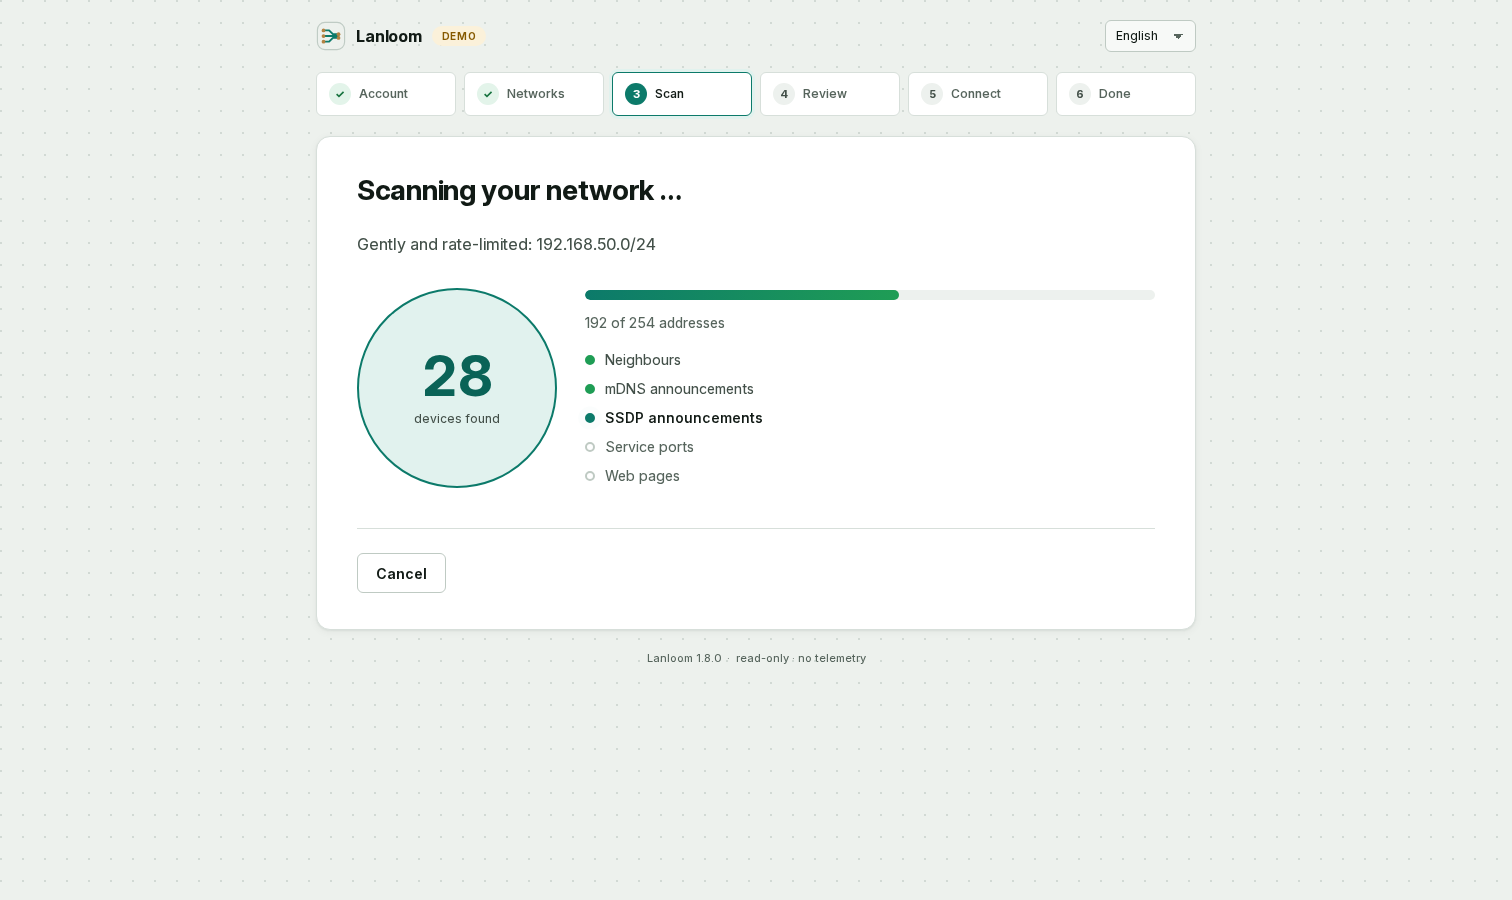
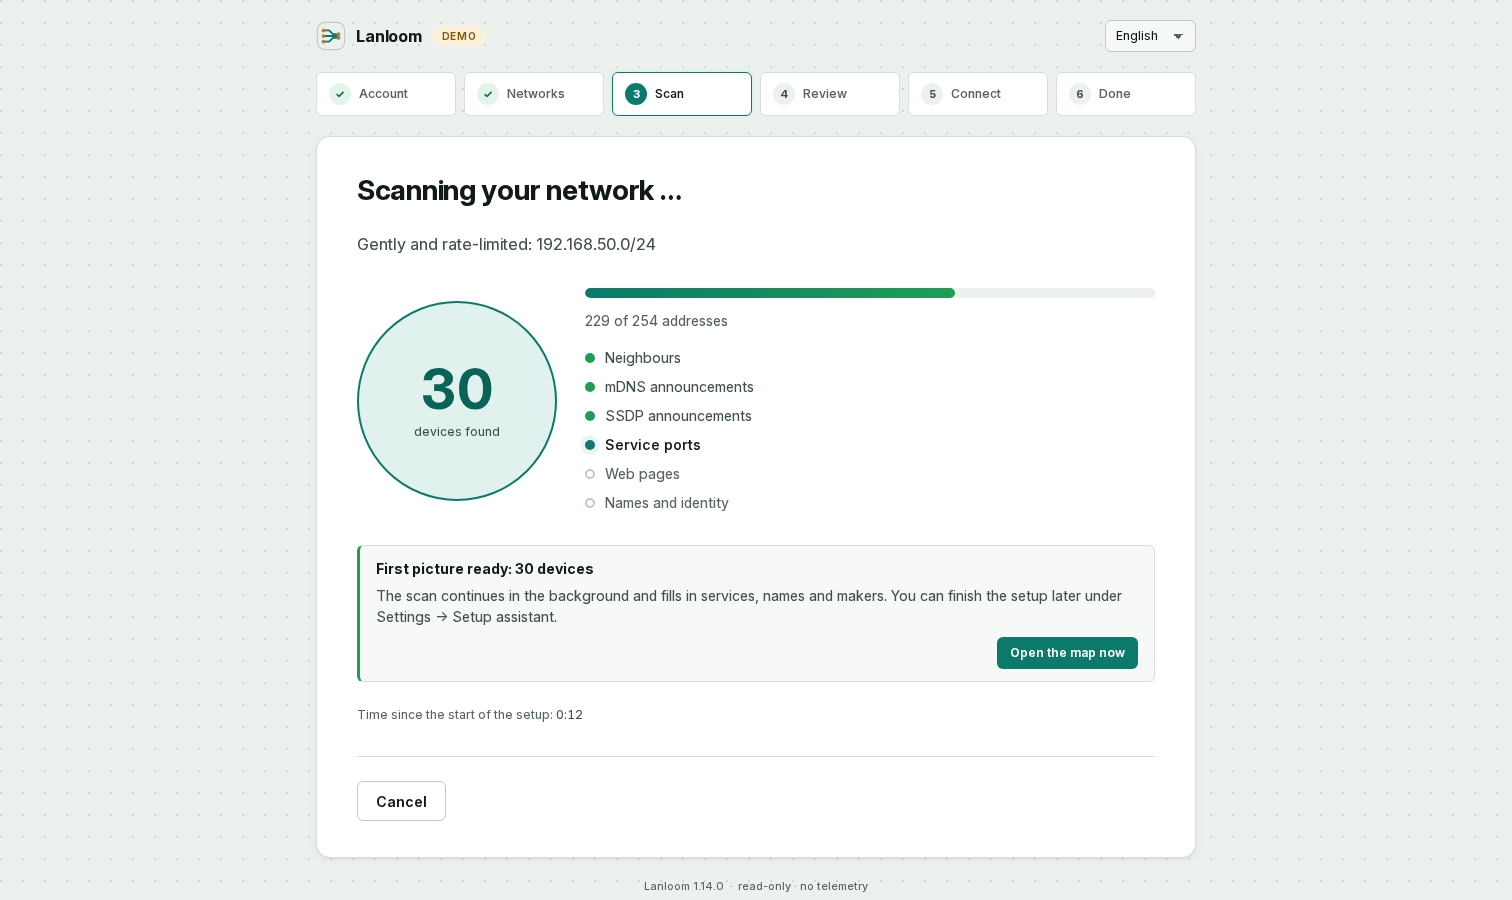
Lanloom 1.14.0: setup assistant 2.0 - detected networks and a safe proposal, first picture during the scan, adapter suggestions with read-only guides, clear test results, sample network, run again; docs and screenshots

diff --git a/tests/test_setup_assist.py b/tests/test_setup_assist.py
@@ -7,7 +7,7 @@ from types import SimpleNamespace
 import pytest
 from fastapi.testclient import TestClient
 
-from lanloom import config as config_mod, demo, integrations as registry, setup_assist
+from lanloom import classify, config as config_mod, demo, integrations as registry, setup_assist
 from lanloom.core import Core
 from lanloom.main import create_app
 from lanloom.scan import netinfo, ports, safety
@@ -35,7 +35,7 @@ def test_large_network_is_narrowed_around_host_and_neighbours():
 def test_every_proposal_passes_the_scan_safety_rules():
     nets = [{"cidr": "10.0.0.0/8", "iface": "eth0", "self_ip": "10.20.30.40", "gateway": "10.20.30.1", "host_mode": True},
             {"cidr": "192.168.7.0/24", "iface": "eth1", "self_ip": "192.168.7.2", "gateway": None, "host_mode": True},
-            {"cidr": "100.64.0.0/10", "iface": "tun0", "self_ip": "100.64.1.2", "gateway": None, "host_mode": True}]
+            {"cidr": "100.64.0.0/24", "iface": "tun0", "self_ip": None, "gateway": None, "host_mode": True}]
     routes = [{"iface": "eth0", "dest": "172.20.0.0", "gateway": "10.20.30.1", "mask": "255.255.255.0",
                "flags": netinfo.RTF_UP | netinfo.RTF_GATEWAY, "metric": 0},
               {"iface": "eth0", "dest": "172.16.0.0", "gateway": "10.20.30.1", "mask": "255.240.0.0",
@@ -83,14 +83,30 @@ def _host(ip, mac, ports_=(), mdns=(), gateway=False, banners=None, sources=("ar
             "ports": [{"port": p, "proto": "tcp", "service": ports.service_name(p), "banner": (banners or {}).get(p)} for p in ports_]}
 
 
+def _family(caps_guests: bool):
+    """A built-in family by its kind of API (controller or hypervisor), never by name."""
+    return next(f for f in registry.families(selectable_only=True) if ("guests" in f.capabilities["read"]) == caps_guests and f.detect)
+
+
+def _sign(fam, *keys):
+    return next(d for d in fam.detect if set(d) == set(keys))
+
+
+HUB_TYPE = next(t for t, (k, w) in classify.MDNS_RULES.items() if k == "hub" and w >= 0.8)
+
+
 def test_suggestions_from_ports_titles_and_announcements():
+    ctl, hv = _family(False), _family(True)
+    ctl_port, ctl_title = _sign(ctl, "port")["port"], _sign(ctl, "title")["title"]
+    hv_sign = _sign(hv, "port", "title")
     c = _core()
     c.ingest({"hosts": [
         _host("192.168.9.1", "02:00:00:00:00:01", (53, 80), gateway=True),
-        _host("192.168.9.20", "02:00:00:00:00:20", (8123,), mdns=[{"type": "_home-assistant._tcp", "name": "hub", "port": 8123}]),  # identifier: test DNS-SD type
+        _host("192.168.9.20", "02:00:00:00:00:20", (8123,), mdns=[{"type": HUB_TYPE, "name": "hub", "port": 8123}]),
         _host("192.168.9.21", "02:00:00:00:00:21", (1883,)),
-        _host("192.168.9.22", "02:00:00:00:00:22", (8443,), banners={8443: {"title": "UniFi Network", "server": None}}),  # identifier: test page title
-        _host("192.168.9.23", "02:00:00:00:00:23", (22, 8006), banners={8006: {"title": "pve1 - Proxmox Virtual Environment", "server": None}}),  # identifier: test page title
+        _host("192.168.9.22", "02:00:00:00:00:22", (ctl_port,), banners={ctl_port: {"title": "Sample " + ctl_title.title(), "server": None}}),
+        _host("192.168.9.23", "02:00:00:00:00:23", (22, hv_sign["port"]),
+              banners={hv_sign["port"]: {"title": "node1 - " + hv_sign["title"].title(), "server": None}}),
         _host("192.168.9.30", "02:00:00:00:00:30", (80, 443)),
     ]}, None)
     sg = setup_assist.suggestions(c)
@@ -98,9 +114,9 @@ def test_suggestions_from_ports_titles_and_announcements():
     assert ("hub", "192.168.9.20") in got and got[("hub", "192.168.9.20")]["certainty"] == "sure"
     assert got[("hub", "192.168.9.20")]["prefill"] == {"url": "http://192.168.9.20:8123"}
     assert got[("mqtt", "192.168.9.21")]["prefill"] == {"host": "192.168.9.21", "port": 1883, "tls": False}
-    assert got[("unifi", "192.168.9.22")]["certainty"] == "sure" and got[("unifi", "192.168.9.22")]["guide"] == "family"
-    assert got[("unifi", "192.168.9.22")]["prefill"]["url"] == "https://192.168.9.22:8443"
-    assert got[("proxmox", "192.168.9.23")]["guide"] == "hv" and got[("proxmox", "192.168.9.23")]["certainty"] == "sure"
+    assert got[(ctl.family, "192.168.9.22")]["certainty"] == "sure" and got[(ctl.family, "192.168.9.22")]["guide"] == "family"
+    assert got[(ctl.family, "192.168.9.22")]["prefill"]["url"] == "https://192.168.9.22:%d" % ctl_port
+    assert got[(hv.family, "192.168.9.23")]["guide"] == "hv" and got[(hv.family, "192.168.9.23")]["certainty"] == "sure"
     assert got[("snmp", "192.168.9.1")]["reasons"][0]["key"] == "setup.reason.gateway"
     assert not [s for s in sg if s["ip"] == "192.168.9.30"]           # a plain web server is no suggestion
     for s in sg:                                                        # never a credential in a prefill
@@ -119,14 +135,15 @@ def test_configured_source_is_marked_and_sorted_last():
 
 
 def test_family_detect_signs_are_validated():
+    caps = dict(_family(False).capabilities, family="x_test")
     with pytest.raises(registry.ManifestError):
-        registry.IntegrationManifest(family="x_test", label="X", capabilities=registry.get("unifi").capabilities | {"family": "x_test"},
-                                     detect=({"port": 70000},)).validate()
+        registry.IntegrationManifest(family="x_test", label="X", capabilities=caps, detect=({"port": 70000},)).validate()
     with pytest.raises(registry.ManifestError):
-        registry.IntegrationManifest(family="x_test", label="X", capabilities=registry.get("unifi").capabilities | {"family": "x_test"},
-                                     detect=({"title": "Upper"},)).validate()
+        registry.IntegrationManifest(family="x_test", label="X", capabilities=caps, detect=({"title": "Upper"},)).validate()
+    with pytest.raises(registry.ManifestError):
+        registry.IntegrationManifest(family="x_test", label="X", capabilities=caps, detect=({"colour": "x"},)).validate()
     assert all(m.detect for m in registry.families(selectable_only=True))
-    assert registry.get("proxmox").public()["detect"]
+    assert _family(True).public()["detect"]
 
 
 def test_hypervisor_port_is_part_of_the_gentle_scan():

diff --git a/lanloom/setup_assist.py b/lanloom/setup_assist.py
@@ -18,19 +18,22 @@ import os
 import re
 import time
 
+from . import classify
 from .scan import neighbors, netinfo, safety
 
 MAX_PREFIX = 22                      # largest range the assistant proposes (/22 = 1024 addresses)
 RESOLV_PATH = "/etc/resolv.conf"
-# DHCP lease files of common Linux network stacks (read when present; inside a container usually absent)
+# DHCP lease files of common network stacks (read when present; inside a container usually absent)
 LEASE_GLOBS = ("/var/lib/dhcp/*.leases", "/var/lib/dhclient/*.leases", "/var/lib/NetworkManager/*.lease",
                "/run/systemd/netif/leases/*")    # identifier: lease file locations
 _IPV4 = r"(\d{1,3}(?:\.\d{1,3}){3})"
 _LEASE_RES = (re.compile(r"dhcp-server-identifier\s+" + _IPV4), re.compile(r"SERVER_ADDRESS=" + _IPV4))
 
 # built-in sources (no family package) and their gentle signs; same sign format as a family manifest's ``detect``
+# the hub's announced DNS-SD type is the one the classifier knows as a sure sign of a hub (no second copy of it here)
+_HUB_TYPES = tuple({"mdns": t} for t, (kind, weight) in classify.MDNS_RULES.items() if kind == "hub" and weight >= 0.8)
 BUILTIN_SIGNS = {
-    "hub": ({"port": 8123}, {"mdns": "_home-assistant._tcp"}),     # identifier: hub default port and DNS-SD type
+    "hub": ({"port": 8123},) + _HUB_TYPES,
     "mqtt": ({"port": 1883}, {"port": 8883}, {"mdns": "_mqtt._tcp"}),
 }
 # guide per kind of source: the text keys live under setup.guide.<guide>.* (steps 1..n)
@@ -214,7 +217,7 @@ def _sign_matches(sign: dict, dev: dict) -> bool:
 
 def _sign_reason(sign: dict) -> dict:
     if "mdns" in sign:
-        return {"key": "setup.reason.mdns", "params": {"type": sign["mdns"]}}
+        return {"key": "setup.reason.mdns", "params": {}}
     if "ssdp" in sign:
         return {"key": "setup.reason.ssdp", "params": {}}
     if "title" in sign:

diff --git a/README.md b/README.md
@@ -44,18 +44,18 @@ All screenshots show the built-in demo network with invented names and addresses
 <table>
 <tr>
 <td width="50%"><img src="docs/screenshots/wizard-1-account.png" width="100%" alt="Wizard step 1: account"><br><sub>1. Create the account with the one-time setup code</sub></td>
-<td width="50%"><img src="docs/screenshots/wizard-2-networks.png" width="100%" alt="Wizard step 2: networks"><br><sub>2. Choose the networks to map</sub></td>
+<td width="50%"><img src="docs/screenshots/wizard-2-networks.png" width="100%" alt="Wizard step 2: networks"><br><sub>2. Detected networks: gateway, DNS, DHCP and the proposed ranges</sub></td>
 </tr>
 <tr>
-<td width="50%"><img src="docs/screenshots/wizard-3-scan.png" width="100%" alt="Wizard step 3: scan"><br><sub>3. Pick a gentle or deep scan</sub></td>
-<td width="50%"><img src="docs/screenshots/wizard-4-progress.png" width="100%" alt="Wizard scan progress"><br><sub>Scan progress</sub></td>
+<td width="50%"><img src="docs/screenshots/wizard-3-scan.png" width="100%" alt="Wizard step 3: scan"><br><sub>3. Scan options: gentle or deep</sub></td>
+<td width="50%"><img src="docs/screenshots/wizard-4-progress.png" width="100%" alt="Wizard scan progress"><br><sub>First picture while the scan continues</sub></td>
 </tr>
 <tr>
 <td width="50%"><img src="docs/screenshots/wizard-5-review.png" width="100%" alt="Wizard step 4: review"><br><sub>4. Review the automatic classification</sub></td>
-<td width="50%"><img src="docs/screenshots/wizard-6-connect.png" width="100%" alt="Wizard step 5: connect"><br><sub>5. Optionally connect integrations</sub></td>
+<td width="50%"><img src="docs/screenshots/wizard-6-connect.png" width="100%" alt="Wizard step 5: connect"><br><sub>5. Suggested adapters with a read-only guide</sub></td>
 </tr>
 <tr>
-<td width="50%"><img src="docs/screenshots/wizard-7-done.png" width="100%" alt="Wizard step 6: done"><br><sub>6. Done: rescan interval and update check</sub></td>
+<td width="50%"><img src="docs/screenshots/wizard-7-done.png" width="100%" alt="Wizard step 6: done"><br><sub>6. Done: time to the first picture, rescan interval, update check</sub></td>
 <td></td>
 </tr>
 </table>
@@ -231,13 +231,25 @@ docker logs lanloom 2>&1 | grep -i "setup code"
 
 The code is also stored in `setup-code.txt` in the data volume. Enter it in the wizard to create your account. See [docs/INSTALL.md](docs/INSTALL.md) for all platforms and options.
 
+### First start
+
+The setup assistant takes you from the setup code to a first picture of your network, usually in under five minutes (the time is measured and shown on the last screen).
+
+1. **Account.** Enter the setup code and create the administrator account.
+2. **Networks.** Lanloom reads the host's interfaces, routes, neighbour table and DHCP lease files (nothing is sent) and shows the gateway, DNS and DHCP it found. It proposes private ranges of at most /22; routed networks behind a router are listed but never pre-ticked. You confirm with a mandatory consent box, then start the gentle scan directly or open *Scan options* for the deep scan.
+3. **First picture.** As soon as the quick phases (neighbours, mDNS, SSDP, WS-Discovery) are done, the devices appear as a preview. *Open the map now* lets you start looking while the scan finishes in the background.
+4. **Connect**. From what the gentle scan saw, Lanloom suggests integrations (home-automation hub, MQTT broker, SNMP, controllers, hypervisors), each with a step-by-step guide to create a read-only account or token, a prefilled address and a test button. Lanloom never tries a sign-in on its own.
+5. **Done**. Rescan interval, update check and the time to your first picture.
+
+Not sure yet? *Explore a sample network* opens a read-only demo beside your real inventory. You can run the assistant again any time under Settings › Setup assistant; devices, names and connections stay. Details: [docs/INSTALL.md](docs/INSTALL.md#first-start).
+
 ## How the scan works
 
 The default **gentle scan** needs no privileges and sends very little:
 
 - It reads the host's kernel neighbour table and nudges addresses with a single UDP datagram to port 9, so the kernel resolves them. No raw sockets, no ICMP.
 - It browses mDNS/DNS-SD and sends an SSDP M-SEARCH. Device descriptions are fetched only from the responding private address, capped at 64 KiB, and XML with DOCTYPE or ENTITY declarations is refused.
-- It tries a TCP connect to 26 well-known service ports and reads the page title and `Server` header of web services (`GET /` only).
+- It tries a TCP connect to 27 well-known service ports and reads the page title and `Server` header of web services (`GET /` only).
 - It reads the kernel's IPv6 neighbour cache (nothing is sent), sends one WS-Discovery probe, and asks each found device once for its NetBIOS name and, if it has no name yet, once by LLMNR.
 - Asking devices with the factory SNMP community is a separate switch and off by default.
 - Limits: about 40 new connections per second, 24 concurrent, 4 per host. A /24 takes roughly 10 to 60 seconds.

diff --git a/CHANGELOG.md b/CHANGELOG.md
@@ -2,6 +2,22 @@
 
 All notable changes to this project are documented here. The format follows [Keep a Changelog](https://keepachangelog.com/en/1.1.0/) and the project uses [Semantic Versioning](https://semver.org/).
 
+## [1.14.0] – 2026-11-16
+
+### Added
+- **Setup assistant 2.0: a first picture in minutes.** The networks step now shows what Lanloom found on the host without sending a packet (interfaces, routes, neighbour table, name servers, DHCP lease files): gateway, DNS and DHCP servers, and the ranges it proposes. Proposals are private and at most a /22 each; a larger interface network is narrowed to the smallest range around this host that holds every known neighbour, and routed networks behind a router are listed but never pre-ticked. Scanning still needs your explicit consent. *Start gentle scan* begins right away; *Scan options …* leads to the deep scan.
+- **First picture during the scan**: after the quick phases (neighbour table, mDNS, SSDP, WS-Discovery) the devices already appear, before ports and web pages are read. *Open the map now* leaves the assistant while the scan finishes in the background. The time from the first setup screen to the first picture is measured and shown at the end; on the isolated test network the first picture is ready after about 7 seconds.
+- **Adapter suggestions**: from what the gentle scan saw (open ports, web page titles, mDNS and SSDP announcements) the connect step suggests a home-automation hub, an MQTT broker, SNMP at the gateway and switches, and every device-family adapter whose manifest declares detection signs (controller and hypervisor families so far). Nothing is ever tried without your credentials. Each suggestion has a step-by-step guide for a read-only account or token, a form prefilled with address and port (never a credential) and a test button. See [docs/INSTALL.md](docs/INSTALL.md#first-start).
+- **Clear test results**: a failed connection test now says what to look at – credentials refused, certificate, not reachable, or something else – with a hint for each.
+- **Sample network from the assistant**: *Explore a sample network* (networks step and Settings › Setup assistant) shows a fictional network next to your own, read-only and only for this browser session, with a banner and *Leave the sample*. It lives in a separate in-memory store; your inventory is not read or changed, every change is refused there, and it ends with sign-out.
+- **Run the assistant again** under Settings › Setup assistant (admins); devices, names and connections stay. *Back to the map* in the assistant header leaves it at any time.
+- Adapter manifests can declare `detect` signs (port, page title, mDNS type, SSDP text); the registry validates them. See [docs/INTEGRATIONS.md](docs/INTEGRATIONS.md).
+- The gentle scan also checks the web port of hypervisors (8006), 27 ports in all.
+- Demo mode: the sample controller and hypervisor answer on their usual ports, so every suggestion appears in the demo.
+
+### Changed
+- Screenshots of the assistant renewed; README section "First start", installation guide, discovery notes and FAQ updated.
+
 ## [1.13.0] – 2026-11-16
 
 ### Added

diff --git a/docs/INSTALL.md b/docs/INSTALL.md
@@ -50,6 +50,19 @@ docker logs lanloom 2>&1 | grep -i "setup code"
 
 It is also in `setup-code.txt` in the data volume. The wizard then guides you through account, networks, scan, review, integrations and finishing. Passwords need at least 10 characters. Passkeys are offered on HTTPS or localhost.
 
+### The setup assistant
+
+1. **Networks.** Lanloom reads the host's network interfaces, routes, neighbour table, `resolv.conf` and DHCP lease files; no packet is sent. It shows the gateway, DNS servers and DHCP server it found and proposes the ranges to map: private addresses only, at most a /22 each. If an interface network is bigger, it is narrowed to the smallest /24 to /22 around this host that holds all known neighbours. Routed private networks behind a router are listed but never pre-ticked. You must tick the consent box before anything is scanned. *Start gentle scan* begins directly; *Scan options ...* leads to the choice of the deep scan.
+2. **First picture.** After the quick phases (neighbour table, mDNS, SSDP, WS-Discovery) the devices already appear as a preview, before ports and banners are read. *Open the map now* leaves the wizard while the scan continues in the background. The time from the first setup screen to the first picture is shown at the end; the target is under five minutes.
+3. **Review and connect.** The automatic classification can be corrected. In the connect step Lanloom suggests integrations based only on what the gentle scan saw (open ports, web page titles, mDNS and SSDP announcements). Each suggestion has a guide for a read-only account or token, a form prefilled with address and port (never credentials) and a *Test* button; a failed test says what to look at: rejected credentials, certificate, not reachable, or other. Everything else stays under *Other sources*.
+4. **Done.** Rescan interval and update check.
+
+**Sample network.** *Explore a sample network* (networks step, and Settings › Setup assistant) opens a read-only demo with a fictional network. It lives in a separate in-memory store beside your real inventory, per browser session (cookie), under a *Sample network* banner with *Leave the sample*. Every change is refused there. It ends with sign-out and stops after 15 minutes without activity. Your data is not read or changed.
+
+**Run it again.** Administrators can start the assistant again under Settings › Setup assistant › *Run the assistant again*. Devices, names and connections stay. *Back to the map* in the wizard header leaves it at any time.
+
+**No network detected?** The assistant shows no ranges when the container only sees its own isolated network. Run the container with host networking (`network_mode: host` in compose, `--network host` with `docker run`) so it sees the interfaces and neighbours of the host, then reload the wizard. Docker Desktop on macOS and Windows cannot do this; see Platforms below.
+
 ## Platforms
 
 ### Linux server or small single-board computer

diff --git a/docs/DISCOVERY.md b/docs/DISCOVERY.md
@@ -14,13 +14,23 @@ The default gentle scan needs no privileges. In this order:
 | mDNS / DNS-SD | browse queries for common service types | names, services and the TXT records a device announces (model, firmware where the device tells it) |
 | SSDP / UPnP | one search request; descriptions only from the private address that answered, at most 64 KiB, no DOCTYPE or ENTITY | friendly name, maker, model, unique device id |
 | WS-Discovery | one multicast probe | device types (computer, printer, scanner, video transmitter) |
-| Service ports | a TCP connect to 26 well-known ports (deep scan: about 218, only with your consent) | open services, web page title and `Server` header |
+| Service ports | a TCP connect to 27 well-known ports (deep scan: about 218, only with your consent) | open services, web page title and `Server` header |
 | NetBIOS | one node-status request to each found device (UDP 137) | computer name and workgroup |
 | LLMNR | one reverse-name request, only to devices that still have no name | a host name |
 | SNMP (off by default) | one read request for three system values with the factory community, only if you switch it on | system description (model, firmware), system name, object id |
 
 Limits as before: about 40 new connections per second, 24 at once, 4 per device. Every UDP request goes out exactly
 once per device and only answers from that device count. No raw sockets, no ICMP, no logins, never public ranges.
+
+The 27 ports include the web interface of hypervisors (8006) next to the usual web, name, file-sharing, printing, broker and management ports.
+
+### Preview and first picture
+
+The quick phases (neighbours, IPv6 neighbours, mDNS, SSDP, WS-Discovery) run first. As soon as they are done, the devices found so far are published as a preview, before ports and banners are read, so the setup assistant can offer *Open the map now* while the rest continues in the background. The time from the first setup screen to this preview is measured.
+
+### Gentle signs for adapter suggestions
+
+The connect step of the assistant suggests integrations from what the gentle scan already saw: open ports (for example the home-automation hub port or an MQTT broker port), web page titles and mDNS/SSDP types, plus SNMP at the gateway and switches. Families declare their own signs in the manifest (`detect`, see [INTEGRATIONS.md](INTEGRATIONS.md)). Suggestions never involve a sign-in attempt; credentials are only used after you enter them and press *Test*.
 
 ### The SNMP switch
 

diff --git a/docs/INTEGRATIONS.md b/docs/INTEGRATIONS.md
@@ -21,6 +21,7 @@ This page describes the foundation every device-family adapter builds on. Which 
 - **Write half** (`write.py`): a `ControllerAdapter` (see [FIREWALL-EDITOR.md](FIREWALL-EDITOR.md#controller-adapters)). It is loaded only in the executor process, only when real writes are armed. Every request goes through a *write* allow-list: method, path pattern, the exact body fields and a check for each value. The adapter cannot widen the list at run time.
 - **Translation module** (`model.py`): maps vendor objects to the neutral model and back. Both halves use it, so the app and the executor compute the same state and the same plan fingerprint.
 - **Manifest** (`__init__.py`, `IntegrationManifest`): family id, label for the selection list, capability list, the two halves, the settings and credential fields of each half, and the dialog form (field types, which fields are secret). The registry refuses a manifest whose halves point outside the family's own folder or whose form does not name every setting.
+- **Detection signs** (`detect`, optional): a tuple of dicts that let the setup assistant suggest the family after a gentle scan. Allowed keys are `port` (integer), `title` (text in a web page title), `mdns` (DNS-SD service type) and `ssdp` (UPnP type or server text). `title`, `mdns` and `ssdp` must be lower case and 2 to 48 characters long. A sign matches a device when all of its keys match; the family is suggested when any sign matches. The registry validates the signs. Signs only read what the scan already collected; they never cause a request or a sign-in. Example: `detect=({"port": 8006, "title": "hypervisor"},)`.
 
 ## Events of a read half
 

diff --git a/docs/FAQ.md b/docs/FAQ.md
@@ -60,6 +60,12 @@ Yes, optionally. Set `LANLOOM_AUTH_HEADER` and `LANLOOM_TRUSTED_PROXIES` (and th
 ### Can I try it without scanning my network?
 Yes. Set `LANLOOM_DEMO=1` (optionally with `LANLOOM_DEMO_SEED=1`) to run a fictional network. Nothing is scanned.
 
+### Why does Lanloom suggest an adapter?
+In the connect step of the setup assistant, Lanloom compares what the gentle scan already saw (open ports, web page titles, mDNS and SSDP announcements) with the detection signs of each integration family. It never tries to sign in. A suggestion shows a guide for creating a read-only account or token and a prefilled address; you enter the credentials yourself and press *Test*. Ignore a suggestion and nothing happens.
+
+### Does the sample network touch my data?
+No. *Explore a sample network* shows a fictional network from a separate in-memory store, read-only, per browser session. Your real inventory is not read or changed there, every change is refused, and the sample ends with sign-out or after 15 minutes without activity.
+
 ### Does the AI see my data?
 Only if you set one up, and only what you ask about. A local AI runs in your network and gets the real text; nothing leaves your network. A cloud service only ever receives placeholders instead of addresses, host and device names, wireless network names, serial numbers and locations, only for the functions you allow, and never more requests than the daily limit. "Preview what is sent" shows the exact text first. Details: [integrations/ai.md](integrations/ai.md).
 
